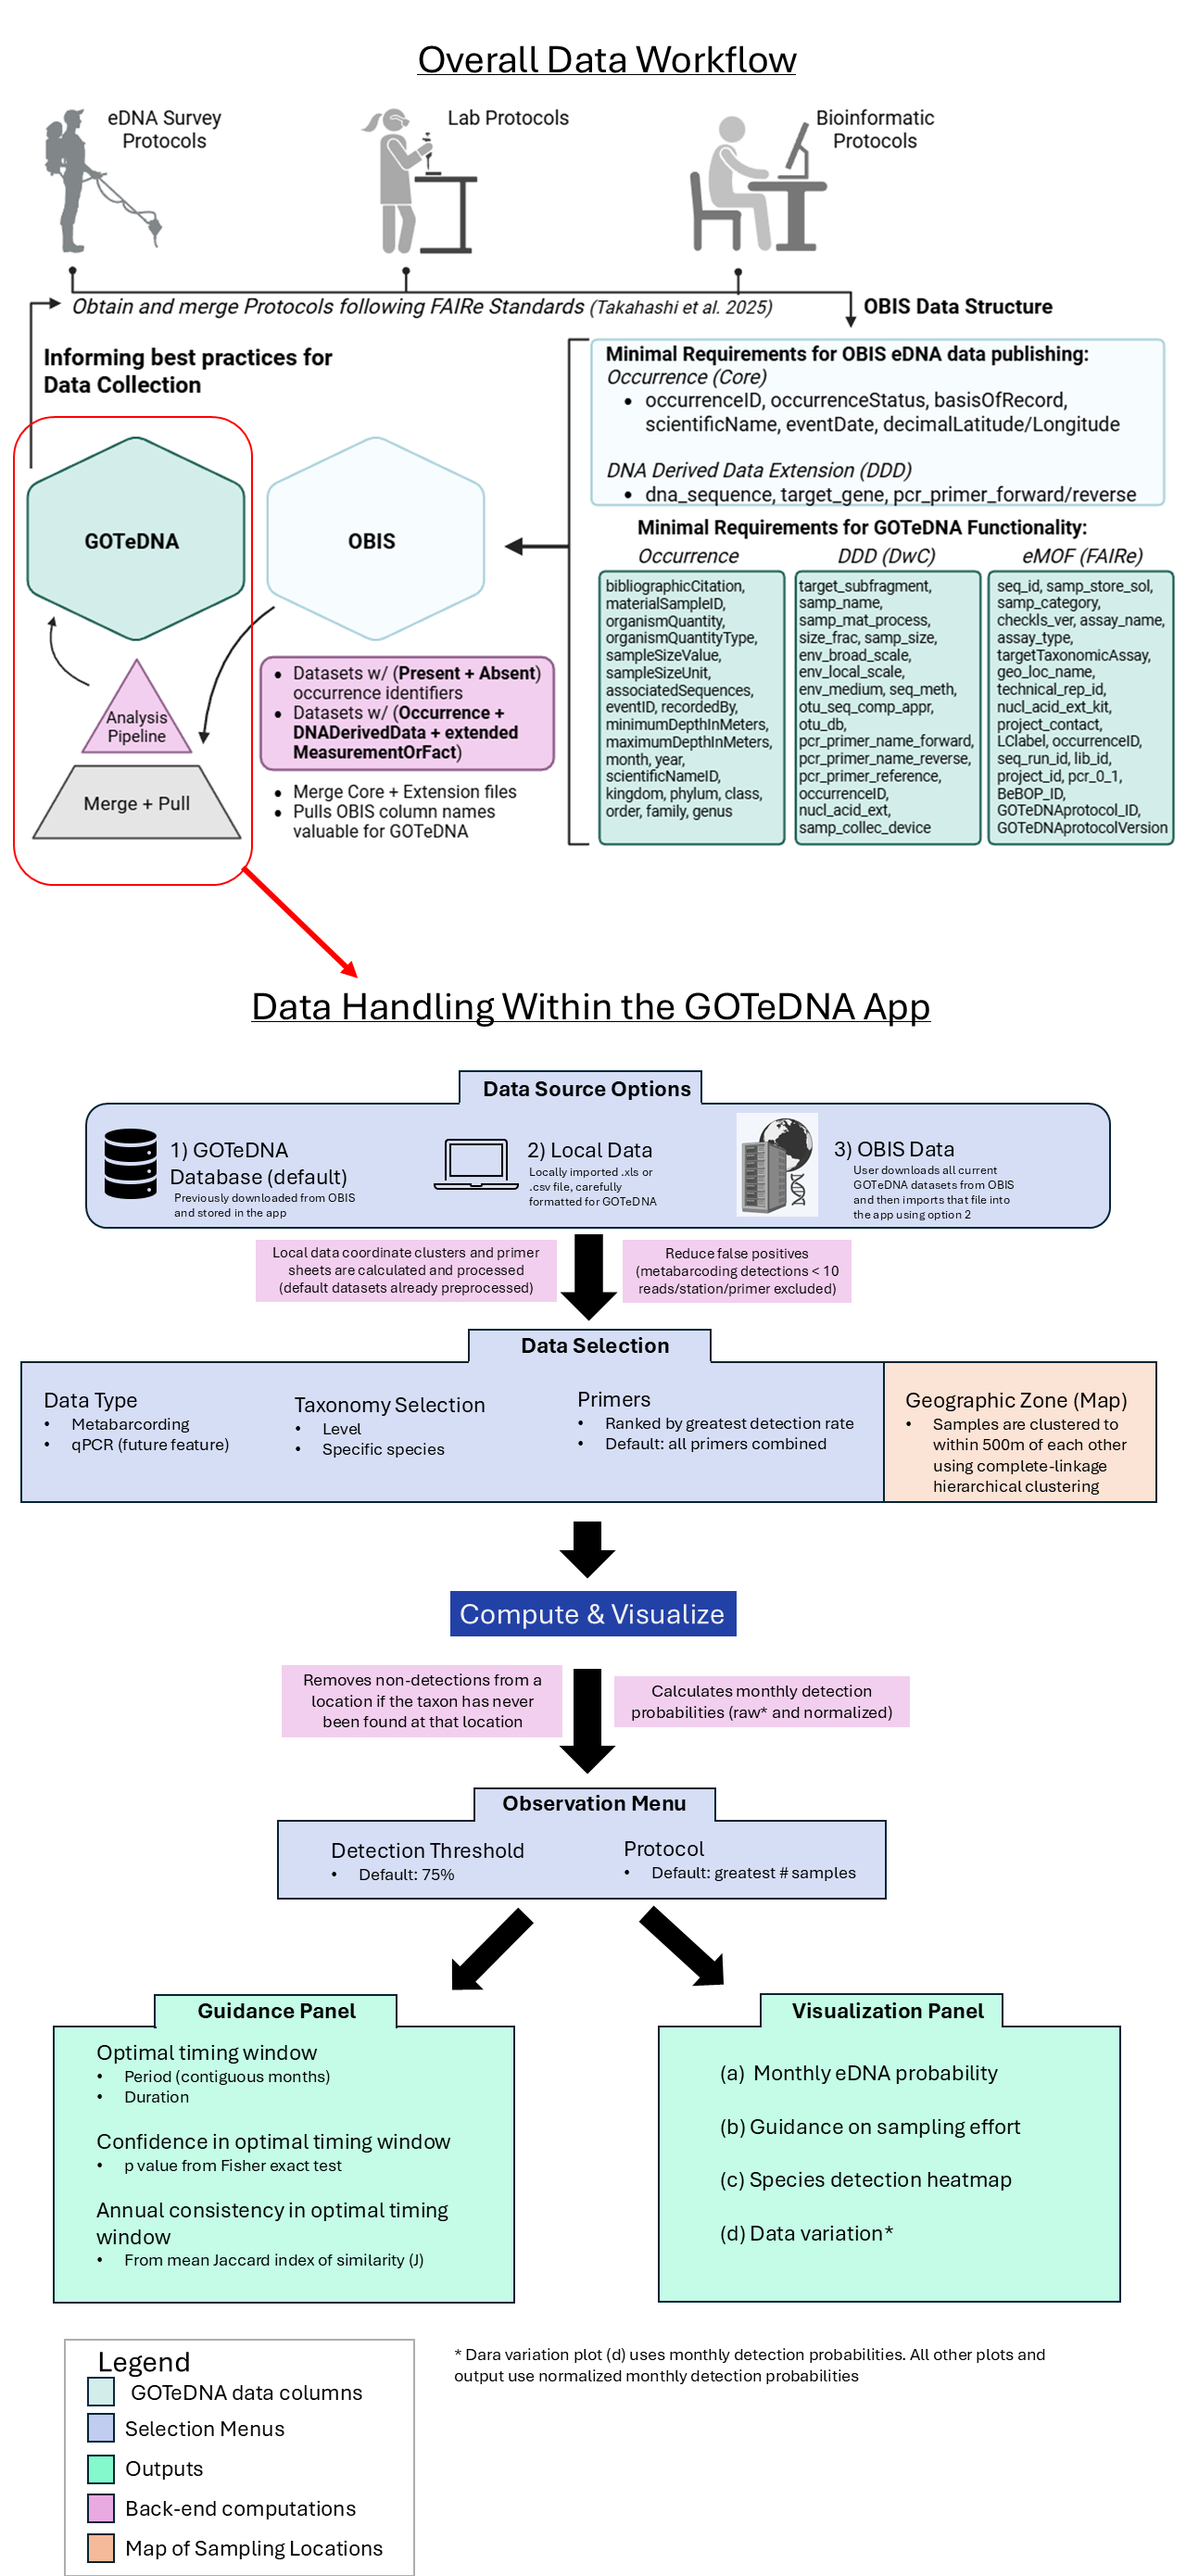
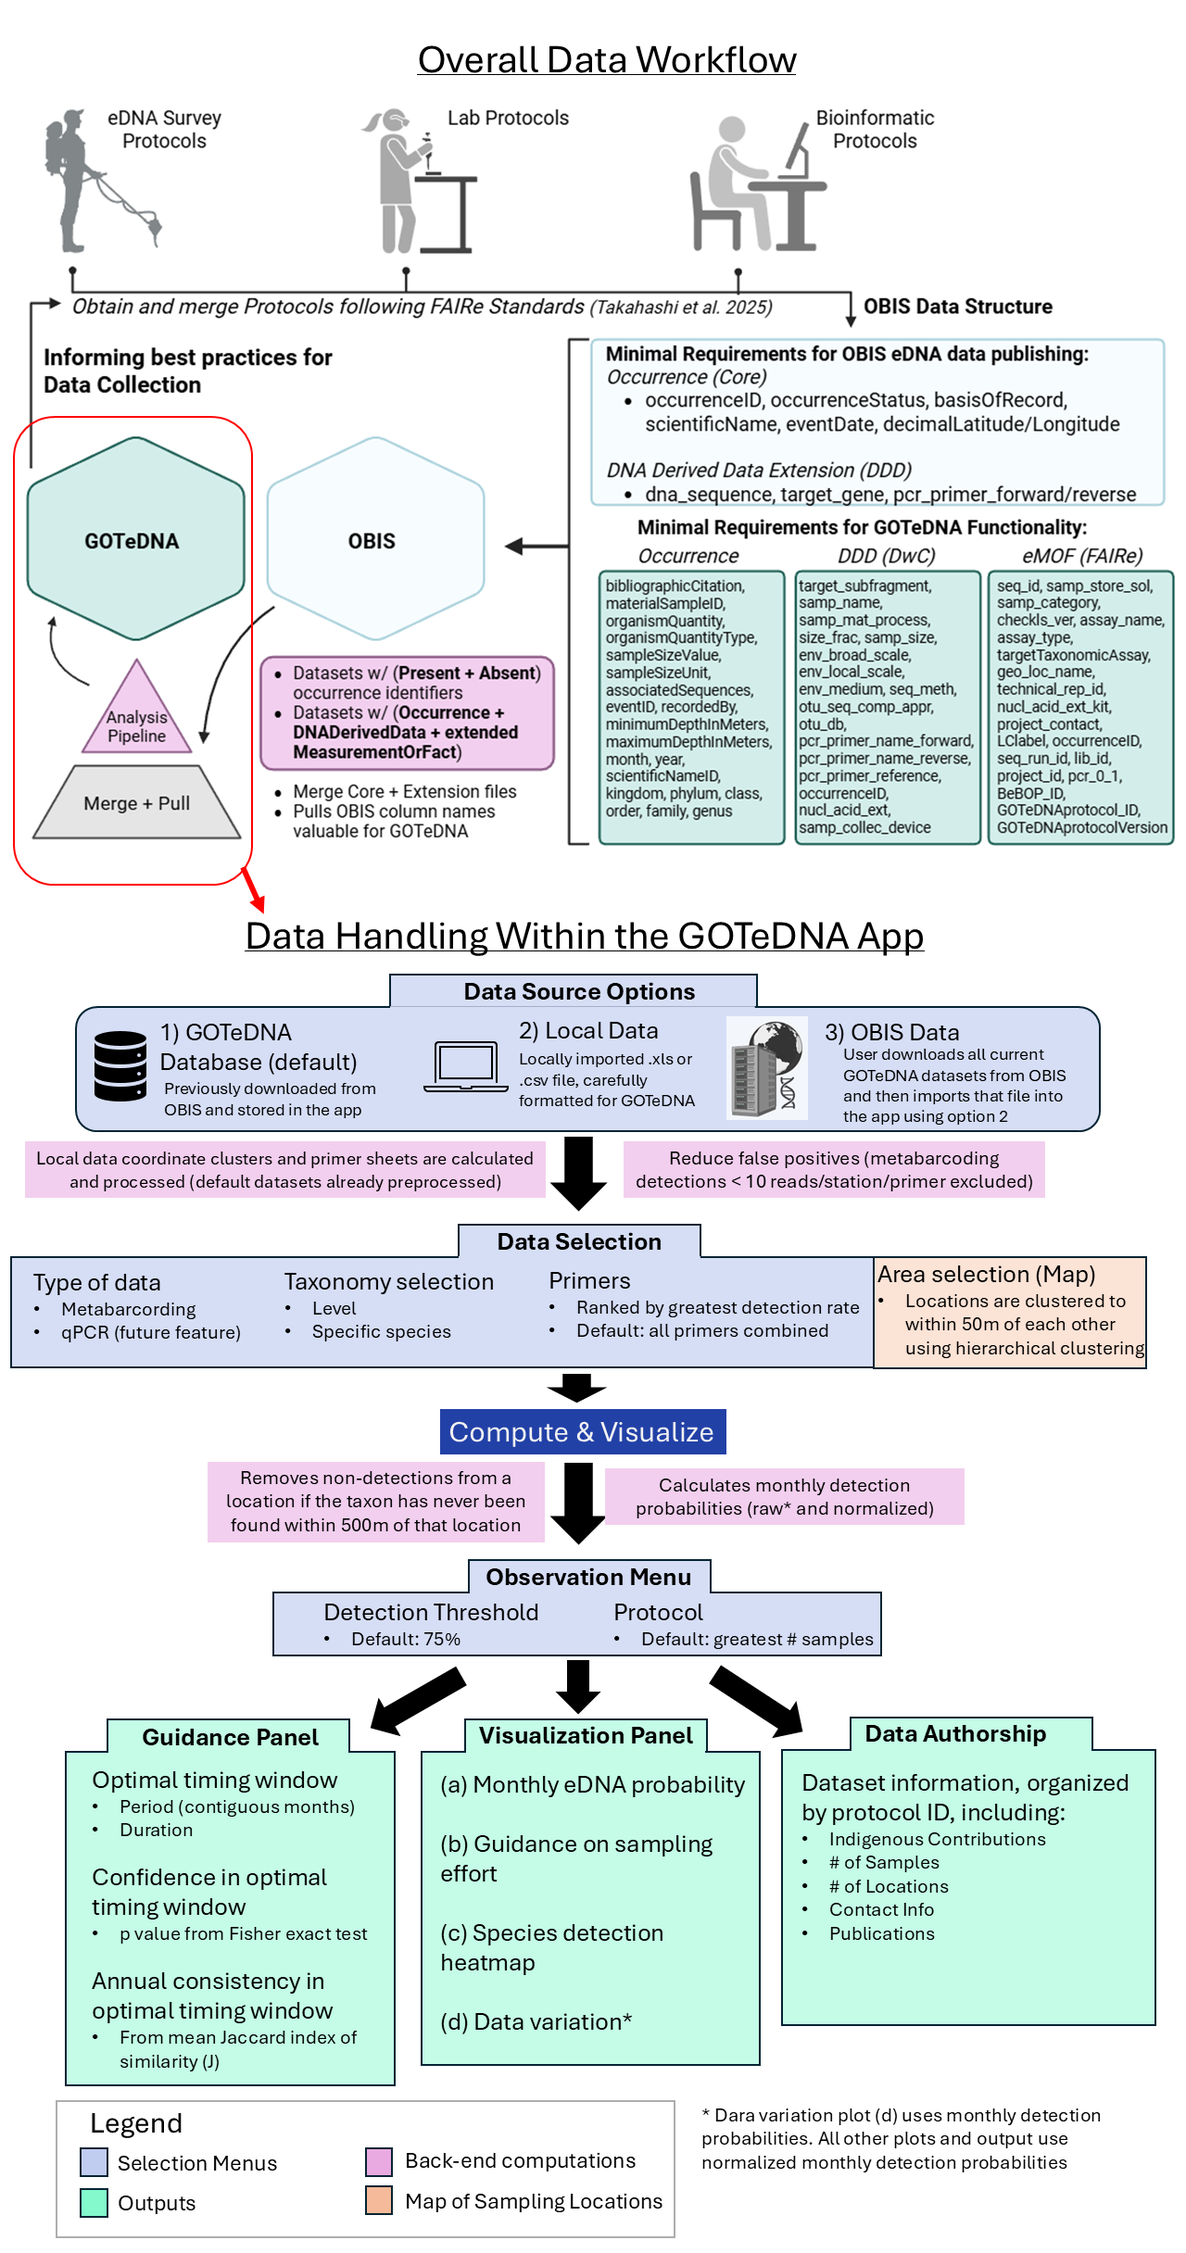
adds new Interpretation Guide image with new reference names

diff --git a/inst/app/www/doc/interp_guide.html b/inst/app/www/doc/interp_guide.html
@@ -1,4 +1,4 @@
 <img src="img/workflow3a.png" width="100%" alt="Interpretation Guide Flowchart">
         <!--  <p style="font-weight:normal;"> Workflow, including: data sourcing, filtering, data request, data preparation, protocol and threshold selections, calculations, guidance statistics models and visualizations. Grey: interface accessibility; white: user selections; dark blue: backend data filters and calculations; turquoise: outputs.</p>
 -->
-<p>Interpretation guidelines are described within Lacoursière-Roussel, A., Morrison, M. K., Barrett, T. J., Beauchesne, D., Cazelles, K., Chevrinais, M., DiBacco, C.,  Ferchaud, A.-L., Gagné, N.,  Gomez, C., Grey, E. K., Jeffery, N. W., Kinnison, M. T., LeBlanc, F., McBride, M. C., Parent, G., Trudel, M., & Howland, K. (under review). GOTeDNA: a centralized interactive guidance and reporting tool for eDNA. Molecular Ecology Resources. </p>
+<p>Interpretation guidelines are described within Lacoursière-Roussel, A., Morrison, M. K., Head, K. J., McLean, L. C., Barrett, T. J., Beauchesne, D., Cazelles, K., Chevrinais, M., DiBacco, C.,  Ferchaud, A.-L., Gagné, N.,  Gomez, C., Grey, E. K., Jeffery, N. W., Kinnison, M. T., LeBlanc, F., McBride, M. C., Parent, G., Trudel, M., & Howland, K. (under review). GOTeDNA: a centralized interactive guidance and reporting tool for eDNA. Molecular Ecology Resources. </p>
